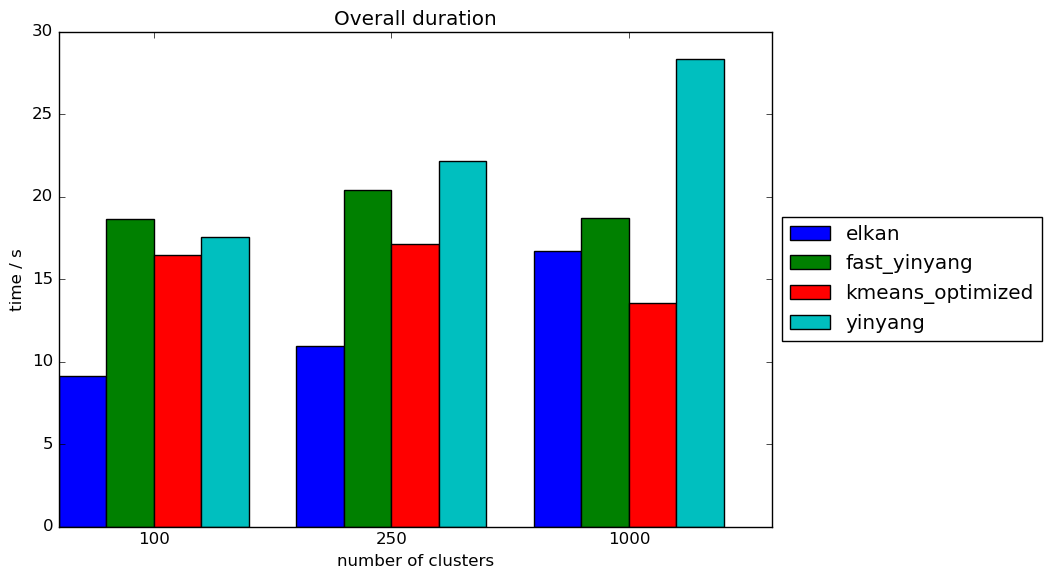
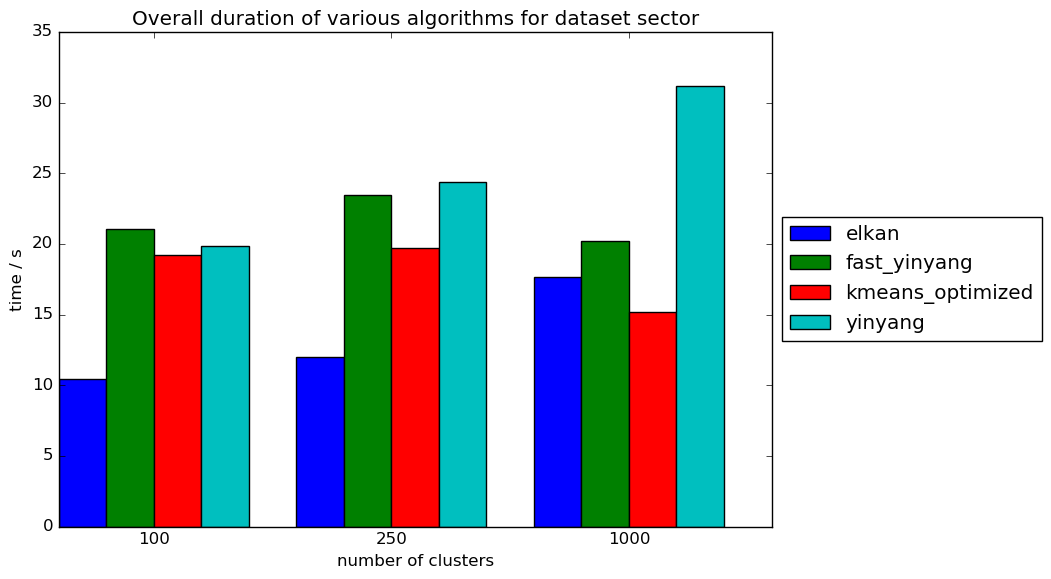
Added readme to examples/python/kmeans/plotting/

diff --git a/examples/python/kmeans/plotting/algorithm_speed_comparison.py b/examples/python/kmeans/plotting/algorithm_speed_comparison.py
@@ -8,7 +8,7 @@ from fcl import kmeans
 from fcl.datasets import load_sector_dataset, load_usps_dataset
 from fcl.matrix.csr_matrix import get_csr_matrix_from_object 
 
-def do_evaluations(dataset_path):
+def do_evaluations(dataset_path, dataset_name):
   
   # Load dataset directly into csr matrix format this way it only needs to be converted once
   data_as_csrmatrix = get_csr_matrix_from_object(dataset_path)
@@ -31,9 +31,9 @@ def do_evaluations(dataset_path):
       algorithm_results[algorithm][no_clusters] = km.get_tracked_params()   
     
   # plot the results
-  plot_overall_duration(algorithm_results)
+  plot_overall_duration(algorithm_results, dataset_name)
 
-def plot_overall_duration(algorithm_results):
+def plot_overall_duration(algorithm_results, dataset_name):
   # create subplot showing the overall duration of the algorithm
 
   fig = plt.figure()
@@ -82,7 +82,7 @@ def plot_overall_duration(algorithm_results):
   ax.set_xticklabels(no_clusters_list, fontdict=None, minor=False)
   ax.set_ylabel('time / s')
   ax.set_xlabel('number of clusters')
-  ax.set_title("Overall duration")
+  ax.set_title("Overall duration of various algorithms for dataset %s"%dataset_name)
 
   lgd = ax.legend(legend_rects, sorted_algorithms, loc='center left', bbox_to_anchor=(1, 0.5))
 
@@ -93,6 +93,4 @@ def plot_overall_duration(algorithm_results):
 
 if __name__ == "__main__":
   ds_folder = abspath(join(dirname( __file__ ), os.pardir, os.pardir, os.pardir, 'datasets'))
-  do_evaluations(load_sector_dataset(ds_folder))
-  
-  
+  do_evaluations(load_sector_dataset(ds_folder), 'sector')

diff --git a/examples/python/kmeans/plotting/README.md b/examples/python/kmeans/plotting/README.md
@@ -1,0 +1,7 @@
+![Comparison of algorithm speeds](https://github.com/thomas-bottesch/fcl/blob/master/examples/python/kmeans/plotting/plot_algorithm_speed_comparison.png?raw=true "algorithm_speed_comparison.py")
+
+![Searching for the best block vector size](https://github.com/thomas-bottesch/fcl/blob/master/examples/python/kmeans/plotting/plot_bv_annz_evaluation.png?raw=true "bv_annz_evaluation.py")
+
+![Comparison of calculations made of different algorithms](https://github.com/thomas-bottesch/fcl/blob/master/examples/python/kmeans/plotting/plot_calculations_evaluation.png?raw=true "calculations_evaluation.py")
+
+![Observing calculations while varying k](https://github.com/thomas-bottesch/fcl/blob/master/examples/python/kmeans/plotting/plot_varying_k_evaluation.png?raw=true "varying_k_evaluation.py")
